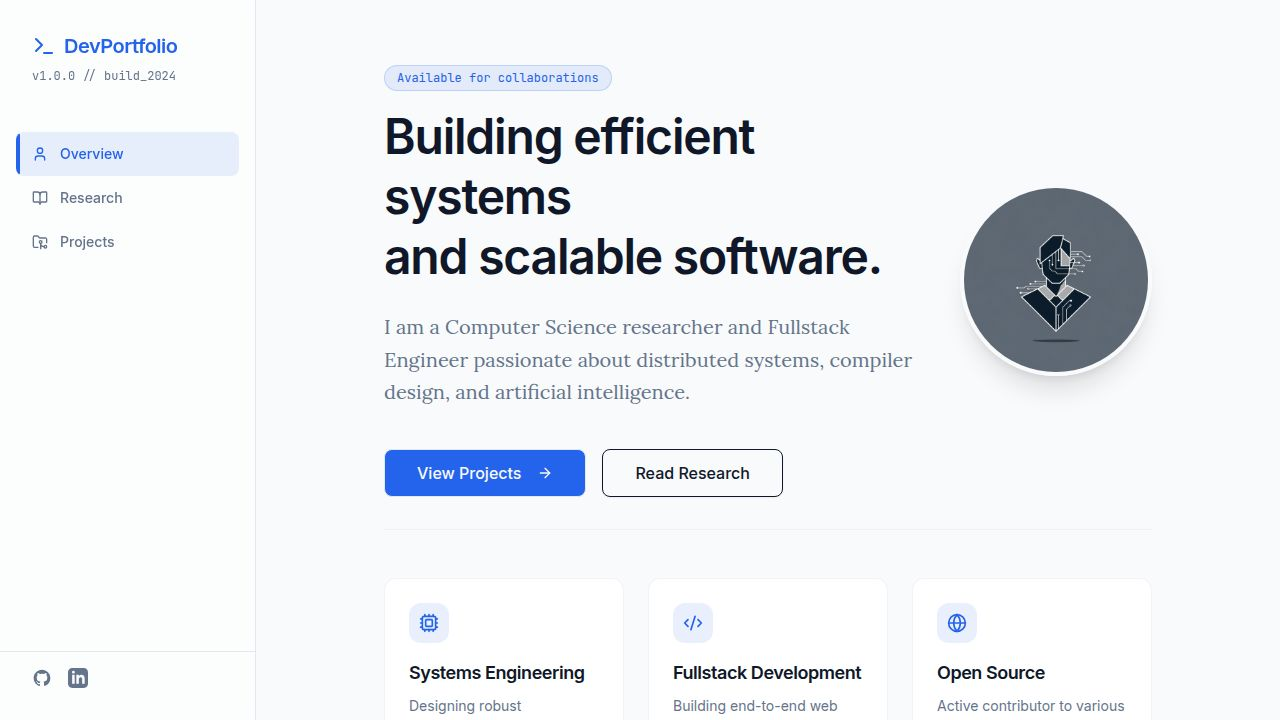
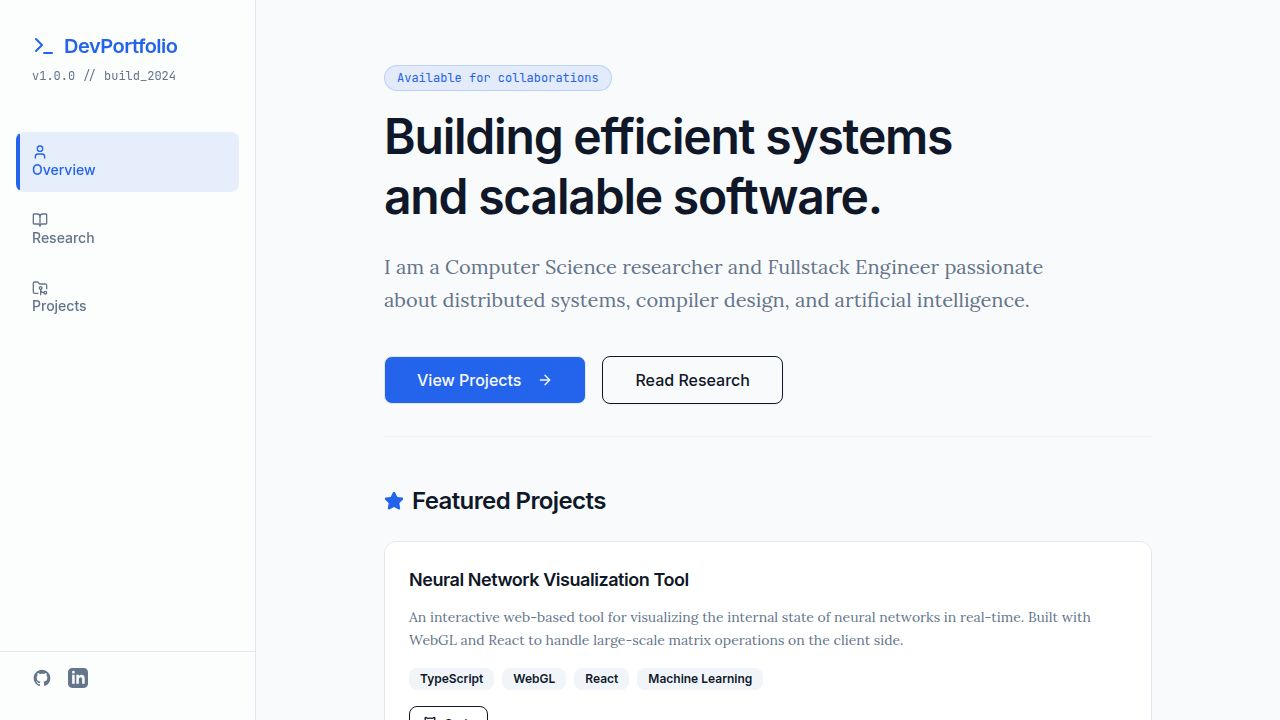
Add featured projects section to the home page
Update `mock-data.ts` to include a `featured` boolean flag for projects and modify `home.tsx` to conditionally render a "Featured Projects" section displaying projects marked as featured.

Replit-Commit-Author: Agent
Replit-Commit-Session-Id: 4df2b137-28e5-4529-9750-f1707c589150
Replit-Commit-Checkpoint-Type: full_checkpoint
Replit-Commit-Event-Id: 034fd0e0-b426-4a6f-82c7-d0d60515b9a5
Replit-Commit-Screenshot-Url: https://storage.googleapis.com/screenshot-production-us-central1/9ec92ce0-cfdf-4555-a494-e6b9958d2c60/4df2b137-28e5-4529-9750-f1707c589150/GmaIBCq
Replit-Helium-Checkpoint-Created: true

diff --git a/client/src/pages/home.tsx b/client/src/pages/home.tsx
@@ -1,9 +1,13 @@
 import Layout from "@/components/layout";
 import { Button } from "@/components/ui/button";
-import { ArrowRight, Code2, Cpu, Globe } from "lucide-react";
+import { ArrowRight, Code2, Cpu, Globe, Github, Play, Star } from "lucide-react";
 import { Link } from "wouter";
+import { projects } from "@/lib/mock-data";
+import { Badge } from "@/components/ui/badge";
 
 export default function Home() {
+  const featuredProjects = projects.filter(p => p.featured);
+
   return (
     <Layout>
       <section className="space-y-8">
@@ -36,6 +40,60 @@ export default function Home() {
             </Link>
           </div>
         </div>
+
+        {/* Featured Projects Section */}
+        {featuredProjects.length > 0 && (
+          <div className="space-y-6 pt-12 border-t border-border/50">
+            <div className="flex items-center gap-2">
+              <Star className="w-5 h-5 text-primary fill-primary" />
+              <h2 className="text-2xl font-bold">Featured Projects</h2>
+            </div>
+            
+            <div className="space-y-4">
+              {featuredProjects.map((project) => (
+                <div 
+                  key={project.id}
+                  className="group p-6 border border-border rounded-lg bg-card hover:border-primary/30 hover:shadow-md transition-all duration-300"
+                >
+                  <div className="flex items-start justify-between gap-4 mb-3">
+                    <h3 className="text-lg font-bold group-hover:text-primary transition-colors flex-1">
+                      {project.title}
+                    </h3>
+                  </div>
+                  
+                  <p className="text-muted-foreground text-sm leading-relaxed mb-4 font-serif">
+                    {project.description}
+                  </p>
+
+                  <div className="flex flex-wrap gap-2 mb-4">
+                    {project.tags.map(tag => (
+                      <Badge key={tag} variant="secondary" className="text-xs">
+                        {tag}
+                      </Badge>
+                    ))}
+                  </div>
+                  
+                  <div className="flex gap-3">
+                    <a href={project.githubUrl} target="_blank" rel="noopener noreferrer">
+                      <Button variant="outline" size="sm" className="gap-1.5 h-9 text-xs">
+                        <Github className="w-3.5 h-3.5" />
+                        Code
+                      </Button>
+                    </a>
+                    {project.videoUrl && (
+                      <a href={project.videoUrl} target="_blank" rel="noopener noreferrer">
+                        <Button variant="ghost" size="sm" className="gap-1.5 h-9 text-xs text-primary hover:text-primary/80 hover:bg-primary/10">
+                          <Play className="w-3.5 h-3.5" />
+                          Demo
+                        </Button>
+                      </a>
+                    )}
+                  </div>
+                </div>
+              ))}
+            </div>
+          </div>
+        )}
 
         <div className="grid grid-cols-1 md:grid-cols-3 gap-6 pt-12 border-t border-border/50">
           <Card 

diff --git a/client/src/lib/mock-data.ts b/client/src/lib/mock-data.ts
@@ -5,6 +5,7 @@ export interface Project {
   githubUrl: string;
   videoUrl?: string;
   tags: string[];
+  featured?: boolean;
 }
 
 export interface ResearchPaper {
@@ -22,6 +23,7 @@ export const projects: Project[] = [
     description: "An interactive web-based tool for visualizing the internal state of neural networks in real-time. Built with WebGL and React to handle large-scale matrix operations on the client side.",
     githubUrl: "https://github.com/replit/neural-vis",
     tags: ["TypeScript", "WebGL", "React", "Machine Learning"],
+    featured: true,
   },
   {
     id: "2",
@@ -30,6 +32,7 @@ export const projects: Project[] = [
     githubUrl: "https://github.com/replit/dist-sim",
     videoUrl: "https://www.youtube.com/watch?v=dQw4w9WgXcQ",
     tags: ["Go", "Distributed Systems", "Algorithm Design"],
+    featured: true,
   },
   {
     id: "3",
